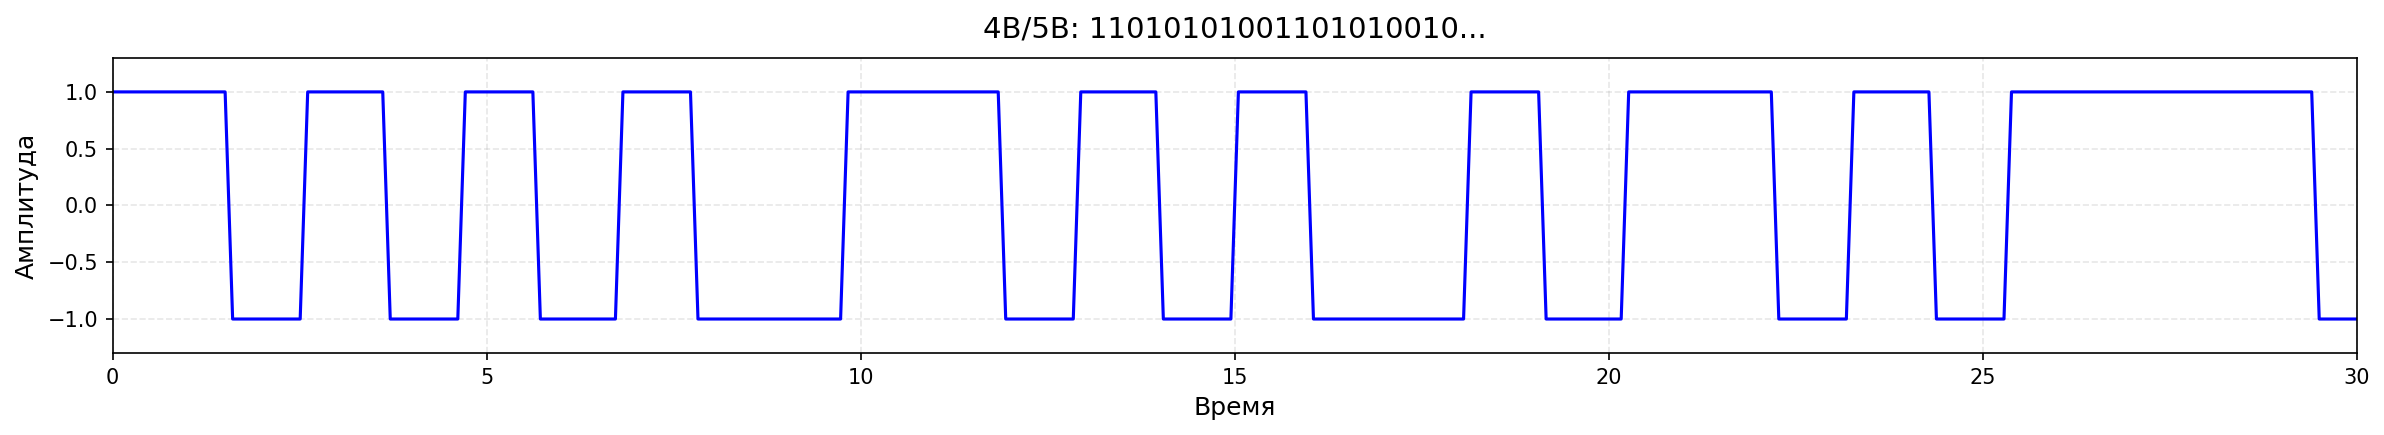
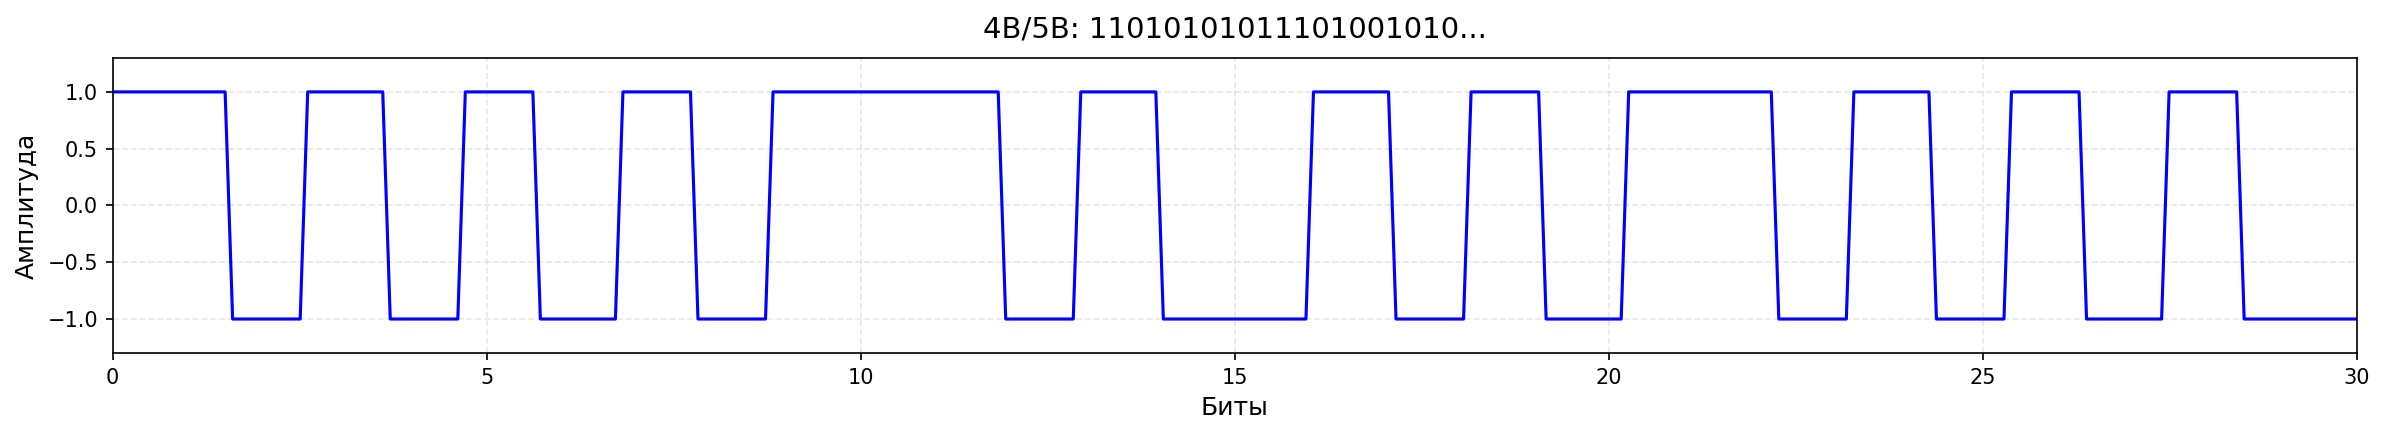
use my lab variant

diff --git a/signal_plotter/report_generator.py b/signal_plotter/report_generator.py
@@ -134,8 +134,6 @@ def generate_report(
     for method_name, encode_func, metrics_func in methods:
         signal = encode_func(bits)
 
-        signal_arr = signal
-
         fig = plotter.plot_signal(
             signal_func=make_plot(signal, len(signal)),
             num_samples=len(signal) * 10,
@@ -314,7 +312,7 @@ def generate_report(
     report_lines.append("")
 
     min_bandwidth = min(m.bandwidth for m in metrics_list)
-    best_methods = [m for m in metrics_list if m.bandwidth == min_bandwidth]
+    # best_methods = [m for m in metrics_list if m.bandwidth == min_bandwidth]
 
     report_lines.append(
         f"1. **Минимальную полосу пропускания** требуют методы NRZ, AMI и Scrambled NRZ: **{min_bandwidth:.1f} МГц**. "
@@ -340,7 +338,7 @@ def generate_report(
         f"   - Manchester требует полосу в 2 раза больше ({manchester_metrics.bandwidth:.1f} vs {nrz_metrics.bandwidth:.1f} МГц)"
     )
     report_lines.append(
-        f"   - Но Manchester обеспечивает гарантированную синхронизацию благодаря переходу в середине каждого бита"
+        "   - Но Manchester обеспечивает гарантированную синхронизацию благодаря переходу в середине каждого бита"
     )
     report_lines.append("")
 
@@ -357,7 +355,7 @@ def generate_report(
     report_lines.append("")
 
     report_lines.append("5. **Скремблирование:**")
-    report_lines.append(f"   - Не увеличивает скорость (избыточность 0%)")
+    report_lines.append("   - Не увеличивает скорость (избыточность 0%)")
     report_lines.append(
         f"   - Сокращает максимальную серию нулей с {find_max_consecutive(bits, 0)} до {find_max_consecutive(scrambled_bits, 0)}"
     )
@@ -390,7 +388,7 @@ def generate_report(
 
 def main():
     """Точка входа."""
-    generate_report(hex_data="C2C8C0", bit_rate=100.0)
+    generate_report(hex_data="C3C4C2", bit_rate=100.0)
 
 
 if __name__ == "__main__":

diff --git a/signal_plotter/encodings.py b/signal_plotter/encodings.py
@@ -3,8 +3,9 @@
 Для курса "Компьютерные сети"
 """
 
-import numpy as np
 from typing import Literal
+
+import numpy as np
 
 
 def bytes_to_bits(data: bytes) -> list[int]:
@@ -160,7 +161,7 @@ def encode_4b5b(bits: list[int]) -> list[int]:
         nibble = tuple(bits[i : i + 4])
         if nibble not in _4B5B_TABLE:
             raise ValueError(f"Некорректный ниббл: {nibble}")
-        result.extend(_4B5B_TABLE[nibble])
+        result.extend(_4B5B_TABLE[nibble])  # pyright: ignore[reportArgumentType]
 
     return result
 
@@ -183,7 +184,7 @@ def decode_4b5b(bits: list[int]) -> list[int]:
         symbol = tuple(bits[i : i + 5])
         if symbol not in _INVERTED_4B5B_TABLE:
             raise ValueError(f"Некорректный 5-битный символ: {symbol}")
-        result.extend(_INVERTED_4B5B_TABLE[symbol])
+        result.extend(_INVERTED_4B5B_TABLE[symbol])  # pyright: ignore[reportArgumentType]
 
     return result
 

diff --git a/output/report.md b/output/report.md
@@ -12,9 +12,9 @@
 
 ### Исходные данные
 
-- **Hex:** 0xC2C8C0
-- **Байты:** C2 C8 C0
-- **Биты:** 11000010 11001000 11000000
+- **Hex:** 0xC3C4C2
+- **Байты:** C3 C4 C2
+- **Биты:** 11000011 11000100 11000010
 - **Длина:** 24 бит (3 байт)
 
 ## 3. Этап 2: Физическое кодирование
@@ -28,11 +28,11 @@
 
 **Характеристики:**
 - Верхняя граница частоты: **50.00 МГц**
-- Нижняя граница частоты: **8.33 МГц**
+- Нижняя граница частоты: **12.50 МГц**
 - Требуемая полоса пропускания: **50.00 МГц**
 - Уровней сигнала: 2
 - Постоянная составляющая (DC): Да
-- Макс. серия нулей: 6
+- Макс. серия нулей: 4
 
 ### 3.2 Manchester
 
@@ -69,11 +69,11 @@
 
 **Характеристики:**
 - Верхняя граница частоты: **50.00 МГц**
-- Нижняя граница частоты: **7.14 МГц**
+- Нижняя граница частоты: **10.00 МГц**
 - Требуемая полоса пропускания: **50.00 МГц**
 - Уровней сигнала: 3
 - Постоянная составляющая (DC): Нет
-- Макс. серия нулей: 6
+- Макс. серия нулей: 4
 
 ## 4. Этап 3: Логическое (избыточное) кодирование
 
@@ -82,8 +82,8 @@
 **Описание:** Метод 4B/5B заменяет каждые 4 бита на 5-битный символ.
 Цель - устранить длинные последовательности нулей и обеспечить синхронизацию.
 
-**Исходное сообщение:** 110000101100100011000000 (24 бит)
-**Закодированное сообщение:** 110101010011010100101101011110 (30 бит)
+**Исходное сообщение:** 110000111100010011000010 (24 бит)
+**Закодированное сообщение:** 110101010111010010101101010100 (30 бит)
 **Избыточность:** 20.0%
 
 ![4B/5B](../output/report_4b5b.png)
@@ -103,9 +103,9 @@
 **Описание:** Скремблирование с полиномом B_i = A_i ⊕ B_{i-5} ⊕ B_{i-7}.
 Цель - устранение постоянной составляющей и длинных последовательностей нулей.
 
-**Исходное сообщение:** 110000101100100011000000 (24 бит)
-**Скремблированное сообщение:** 110001010110100101011000 (24 бит)
-**Макс. серия нулей до скремблирования:** 6
+**Исходное сообщение:** 110000111100010011000010 (24 бит)
+**Скремблированное сообщение:** 110001000110111101100111 (24 бит)
+**Макс. серия нулей до скремблирования:** 4
 **Макс. серия нулей после скремблирования:** 3
 
 ![Scrambled NRZ](../output/report_scrambled.png)
@@ -120,10 +120,10 @@
 
 | Метод | Полоса (МГц) | f_в (МГц) | f_н (МГц) | Уровни | DC |
 |-------|-------------|-----------|-----------|--------|-----|
-| NRZ | 50.0 | 50.0 | 8.3 | 2 | Да |
+| NRZ | 50.0 | 50.0 | 12.5 | 2 | Да |
 | Manchester (IEEE) | 100.0 | 100.0 | 50.0 | 2 | Нет |
 | RZ | 100.0 | 100.0 | 25.0 | 3 | Нет |
-| AMI | 50.0 | 50.0 | 7.1 | 3 | Нет |
+| AMI | 50.0 | 50.0 | 10.0 | 3 | Нет |
 | 4B/5B+NRZ | 62.5 | 62.5 | 15.6 | 2 | Нет |
 | Scrambled NRZ (polynomial order 7) | 50.0 | 50.0 | 16.7 | 2 | Нет |
 
@@ -149,7 +149,7 @@ Manchester (IEEE), RZ, AMI, 4B/5B+NRZ, Scrambled NRZ (polynomial order 7).
 
 5. **Скремблирование:**
    - Не увеличивает скорость (избыточность 0%)
-   - Сокращает максимальную серию нулей с 6 до 3
+   - Сокращает максимальную серию нулей с 4 до 3
    - Полоса остаётся как у NRZ: 50.0 МГц
 
 ### Рекомендации
